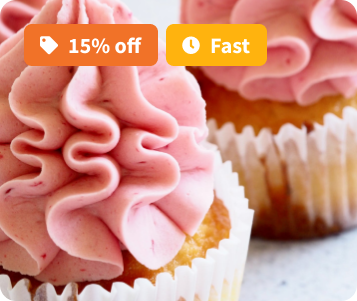
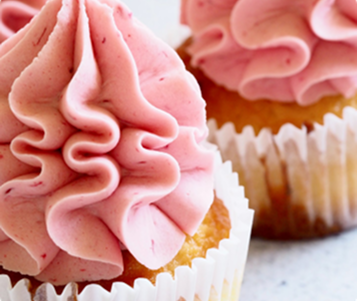
se crea el modulo restaurantes populares donde se le da uso al componente Restaurantes

diff --git a/src/pages/index.css b/src/pages/index.css
@@ -333,5 +333,126 @@ border-radius: 10px;
 text-align: center; 
 }
 /* Restaurantes Destacados */
+.Restaurantes{
+  width:100%;
+  height:1200px;
+  display: flex;
+  align-items: center;
+  flex-direction: column;
+  position: relative;
+  top: 300px;
+  left: 120px;
+}
+.Restaurantes h2{
+  font-family: "Source Sans 3", sans-serif;
+  font-size: 40px;
+  text-align: center;
+  position: absolute;
+  top:-120px;
+  right:42%;
+  
+}
+.Restaurantes div{
+  display: flex;
+  align-items: center;
+  justify-content:center;
+  gap:20px;
 
-
+}
+.Card-restaurantes{
+  width:20%;
+  height: 410px;
+  display: flex;
+  flex-direction: column;
+  margin-bottom:100px;
+}
+.Img-restaurantes img{
+  width:100%;
+  height:300px;
+  border-radius: 20px;
+}
+.Img-restaurantes button{
+  height: 45px;
+  position:relative;
+  bottom:105px;
+  right: 280px;
+  padding-right:25px;
+  padding-left: 25px;
+  font-family: "Source Sans 3", sans-serif;
+  font-size: 18px;
+  font-weight: 600;
+  border: none;
+  border-radius: 10px;
+  background: #F26722;
+  color:white ;
+  
+}
+.Img-restaurantes p{
+  height: 45px;
+  position:relative;
+  bottom:105px;
+  right:290px;
+  padding-right:25px;
+  padding-left: 25px;
+  font-family: "Source Sans 3", sans-serif;
+  font-size: 18px;
+  font-weight: 600;
+  border: none;
+  border-radius: 10px;
+  background: #FFAE00;
+  color:white ;
+}
+.Card-restaurante-estrella{
+  display: flex;
+  flex-direction: column;
+  align-items:center;
+}
+.Card-restaurante-estrella button{
+  width: 140px;
+  height: 40px;
+  font-family: "Source Sans 3", sans-serif;
+  font-size: 18px;
+  font-weight: 600;
+  margin-top: 24px;
+  border: transparent;
+  border-radius: 10px;
+  background: linear-gradient(to bottom, #FFEDE5, #FFDAC2);
+  color: #F26722;
+  margin-right:200px;
+}
+.Card-estrella{
+  position:relative;
+  right:50px;
+  display: flex;
+  align-items:center;
+  margin-top: 15px;
+  margin-right: 150px;
+  gap: 20px;
+  font-family: "Source Sans 3", sans-serif;
+  font-size:18px;
+}
+.Card-estrella img{
+  width: 60px;
+  height: 60px;
+  margin-right:15px;
+}
+.Card-estrella p{
+position: relative;
+top:45px;
+right:80px;
+color: #F26722;
+}
+.verTodo{
+  width: 164px;
+  height: 46px;
+  background-color:#FFAE00 ;
+  color: #ffff;
+  border-radius: 8px;
+  font-size: 18px;
+  font-weight: 600;
+  border: transparent;
+  box-shadow: 0 5px 15px #FFAE00 ;
+  position: relative;
+  top: 50px;
+  right: 110px;
+}

diff --git a/src/services/dataBase.jsx b/src/services/dataBase.jsx
@@ -1,3 +1,4 @@
+import Restaurantes from "../components/Restarantes"
 
     export let pedidos=[
         {
@@ -87,6 +88,7 @@
         logo:"/foodworld_logo.png",
         titulo:"foodworld", 
         estrellas:"46",
+        boton:"Abre mañana"
         },
         {
         off:"20%",
@@ -100,7 +102,7 @@
         off:"10%",
         img:"/donuts_hot.png",
         logo:"/donuts_hot_logo.png",
-        titulo:"Donuts hot", 
+        titulo:"Donuts", 
         estrellas:"20",
         boton:"Abierto ahora"
         },
@@ -108,8 +110,42 @@
         off:"20%",
         img:"/subway.png",
         logo:"/subway_logo.png",
-        titulo:"foodworld_logo", 
-        estrellas:"46",
+        titulo:"Subway", 
+        estrellas:"50",
         boton:"Abierto ahora"
         }
     ]
+   export let restaurantes=[
+    {
+        off:"20%",
+        img:"/Ruby_tuesday.png",
+        logo:"/Ruby_logo.png",
+        titulo:"Ruby Tuesday", 
+        estrellas:"26",
+        boton:"Abierto ahora"
+        },
+        {
+        off:"25%",
+        img:"/Kuakata_Fried.png",
+        logo:"/Kuakata_logo.png",
+        titulo:"Fried Chicken", 
+        estrellas:"53",
+        boton:"Abierto ahora"
+        },
+        {
+        off:"10%",
+        img:"/Red_square.png",
+        logo:"/Red_logo.png",
+        titulo:"Red Square", 
+        estrellas:"45",
+        boton:"Abierto ahora"
+        },
+        {
+        off:"10%",
+        img:"/Taco_bell.png",
+        logo:"/Taco_logo.png",
+        titulo:"Taco Bell", 
+        estrellas:"35",
+        boton:"Abierto ahora"
+        }
+   ]

diff --git a/src/pages/HealthFood.jsx b/src/pages/HealthFood.jsx
@@ -4,7 +4,7 @@ import EncuentraComida from "../Components/EncuentraComida"
 import Header from "../Components/Header"
 import ComoFunciona from "../components/ComoFunciona"
 import PopularesCerca from "../components/PopularesCerca"
-import { pedidos } from "../services/dataBase"
+import { pedidos, restaurantes } from "../services/dataBase"
 import { funciona } from "../services/dataBase"
 import { populares } from "../services/dataBase"
 import Restaurantes from "../components/Restarantes"
@@ -35,12 +35,17 @@ const HealthFood=()=>{
                 return <PopularesCerca cerca={popular}/>
             })}
         </div>
-        <section>
+        <section className="Restaurantes">
             <h2>Restaurantes Destacados</h2>
             <div>
                 {tiendas.map((tienda)=>{
                     return<Restaurantes destacado={tienda}/>})}
             </div>
+            <div>
+                {restaurantes.map((restaurante)=>{
+                    return<Restaurantes destacado={restaurante}/>})}
+            </div>
+            <button className="verTodo">Ver todo</button>
         </section>
         </body> 
         </html>

diff --git a/src/components/Restarantes.jsx b/src/components/Restarantes.jsx
@@ -1,16 +1,16 @@
 const Restaurantes=({destacado})=>{
     return(
-    <section>
-        <div>
+    <section className="Card-restaurantes">
+        <div className="Img-restaurantes">
             <img src={destacado.img} alt={destacado.titulo} />
-            <h3>{destacado.off}</h3>
-            <p>Fast</p>
+            <button>{destacado.off}off</button>
+            <p>🕓Fast</p>
         </div>
-        <div>
-            <section>
+        <div className="Card-restaurante-estrella">
+            <section className="Card-estrella">
             <img src={destacado.logo} alt="logo" />
             <h3>{destacado.titulo}</h3>
-            <p>{destacado.estrellas}</p>
+            <p>⭐{destacado.estrellas}</p>
             </section>
             <button>{destacado.boton}</button>            
         </div>
